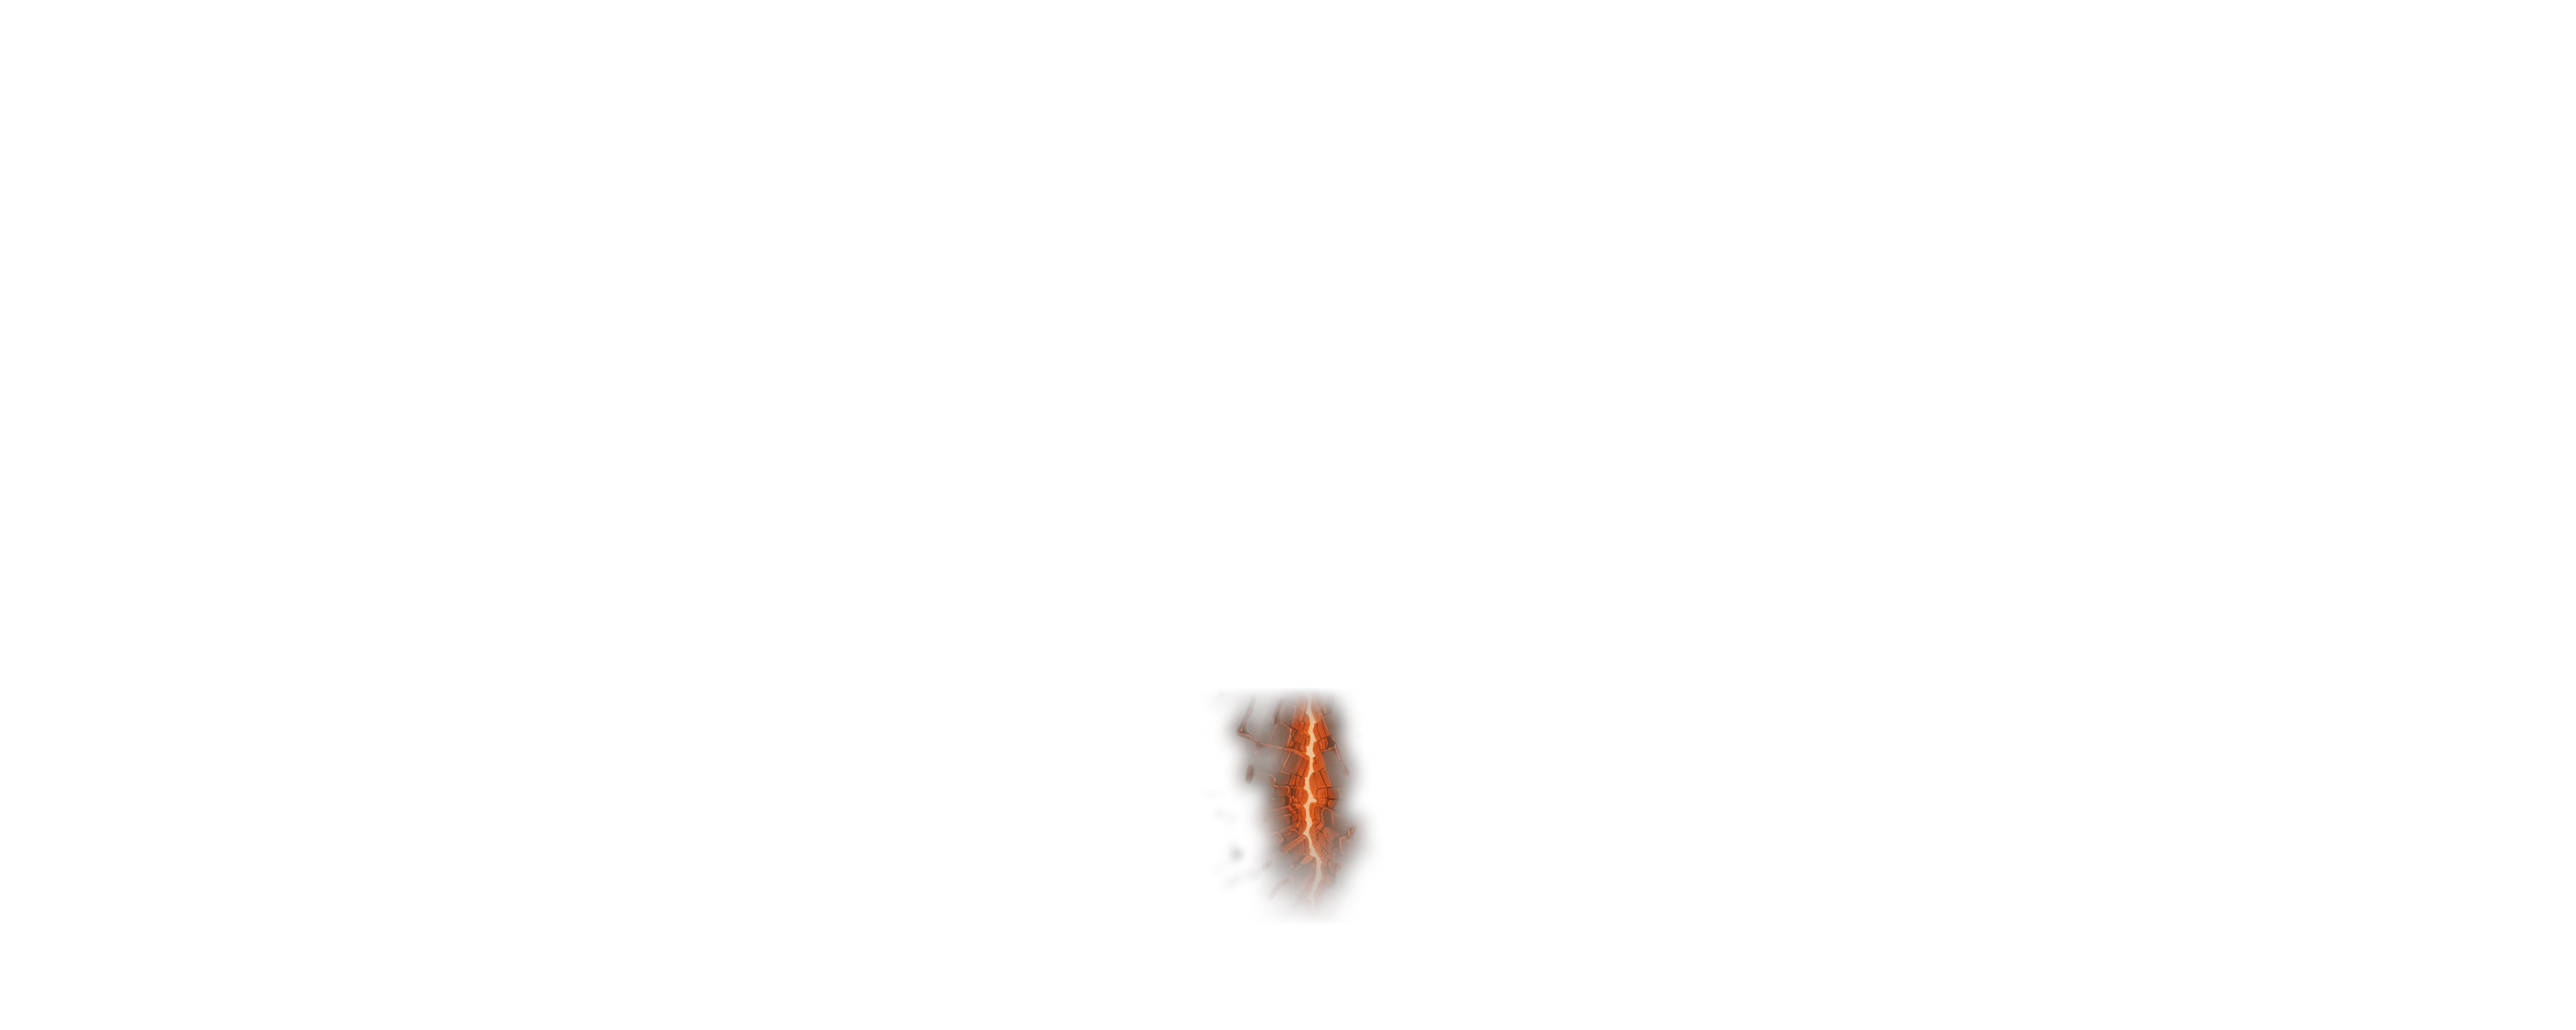
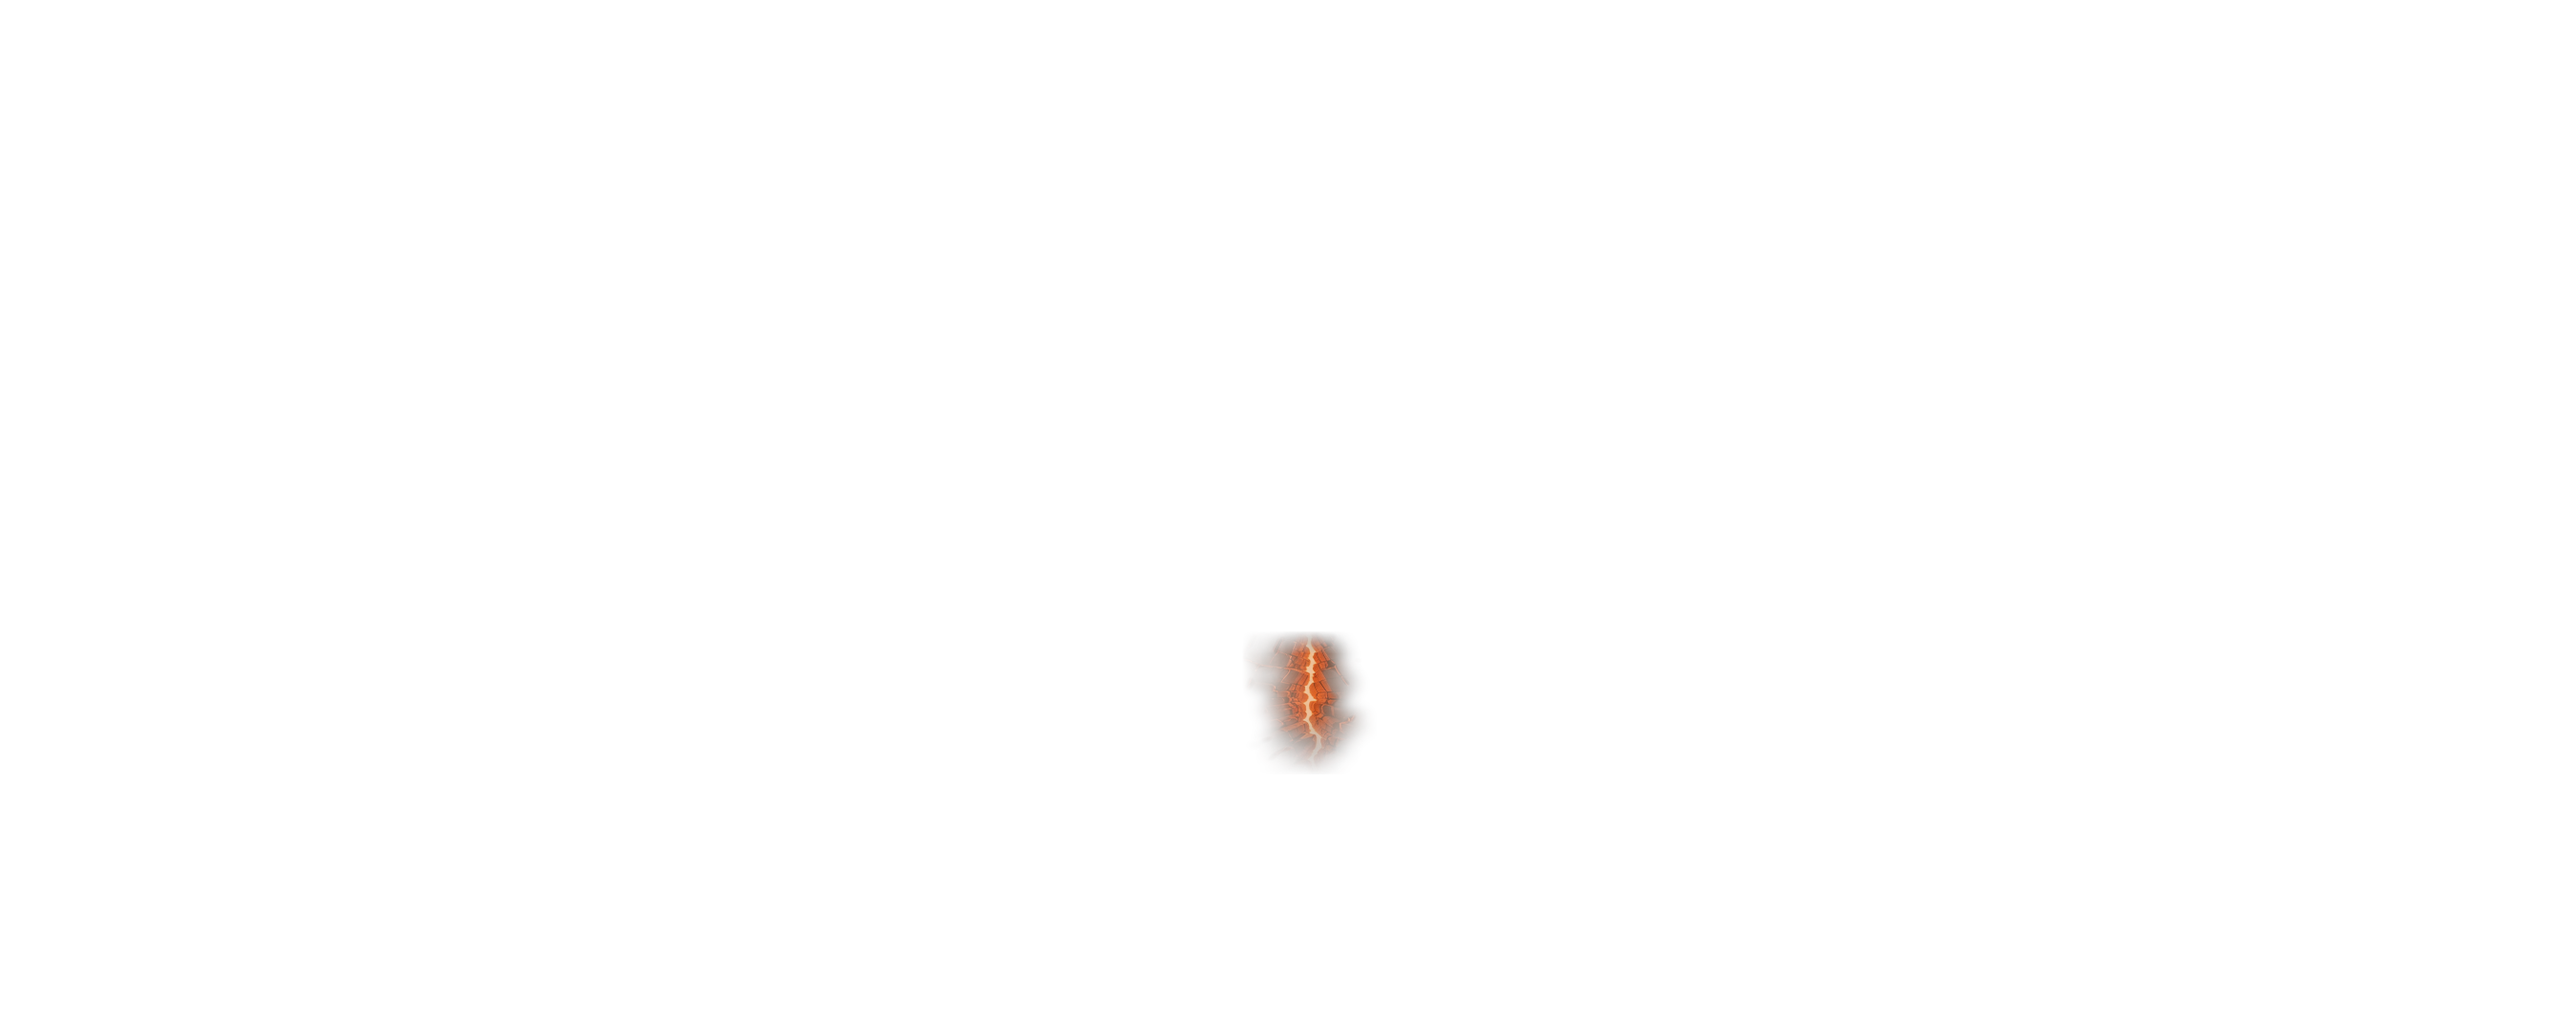
C3' F4 at its own rest (-527, -285) in FORMS (chaos_i3 heave noted for TS); F4 C24 cavity reviewed ITERATE twice, not approved; F3 crack moved up into the visible band and re-approved (SHIP WITH NITS; v2 archived)

Changed region(s): [[0.4667, 0.6111, 0.5289, 0.8861]]

diff --git a/assets-src/gen/colossus.py b/assets-src/gen/colossus.py
@@ -55,6 +55,11 @@ FORMS = {
     "chaos_horizon": {"aspect": "21:9", "canvas": (2700, 1080), "place": (-527, -60), "sky_dim": 0.6,
                       "gen": "f3_gen", "nobg": "f3_nobg", "upscale": "f3_upscale",
                       "ring": (1350.0, 502.0, 525.0, 48.0), "corona": (1347.0, 510.0, 230.0)},
+    # F4: F3's art with the `core` layer's `open` frame, at its own rest place (orchestrator ruling 2026-11-16, C3'):
+    # raised so the whole chest cavity (canvas rows 700-1050) is above the bottom strip (screen 415-765); the canvas
+    # bottom stays at 795 >= 786. chaos_i3 heaves the colossus up from F3's rest (-527, -60) to here (TS owner).
+    "chaos_horizon_core": {"art": "chaos_horizon", "canvas": (2700, 1080), "place": (-527, -285), "sky_dim": 0.6,
+                           "variant": {"core": "open"}},
 }
 
 

diff --git a/docs/ROSTER_LOG.md b/docs/ROSTER_LOG.md
@@ -1335,3 +1335,29 @@ archive copies are in `chaos_horizon_v1`.
 - **Note for the orchestrator:** at the lowered place (-527, -60) the chest (canvas rows 650-1080) mostly falls
   behind the bottom strip. The approved `core_crack` patch (canvas rows ~686-1000) shows only its upper part at rest
   (screen 626-780). A chest variant needs either a pan / `place` change when it is shown, or a higher patch.
+
+**Orchestrator ruling (2026-11-16, 0 calls): F4 = the first retry's cavity (C24) at its own, higher rest place.**
+- **F4 place (-527, -285)**, recorded in `colossus.py FORMS` as `chaos_horizon_core` (art chaos_horizon, variant
+  core: open).
+  - The cavity (canvas rows 700-1050) sits at screen 415-765, all above the strip.
+  - The canvas bottom is at 795 (>= 786); the top is glow only.
+  - Party band std 58.0.
+  - **TS owner:** chaos_i3 must heave the colossus up from F3's rest (-527, -60) to F4's rest (-527, -285), a pan or
+    rise of dy -225. The interlude total is pinned in interludes.test, and the json needs a per-form place for F4.
+- **F4 review 1 (side by side with F3): ITERATE.**
+  - Same being, no face, the party readable.
+  - Nits: an almond / spade outline with a top spike near the disc, a flat flame interior with no inner walls,
+    a downward streak, the rubble crisper than the body.
+  - Offline fixes: the top spike faded (alpha from canvas row 735), the streak faded (to row 945), the rubble toned
+    to the body (feathered, stone pixels only).
+- **F4 review 2: ITERATE**, though the reviewer said it would be "a weak SHIP WITH NITS if the budget stop holds".
+  - Open: a bonfire-like flame instead of a molten mass, little cavity depth, little light on the pectorals, the
+    teardrop outline.
+- **Not approved** under the ruling; the candidate is `gen/out/colossus/chaos_horizon/f4/core_open_fix.png`
+  (2700x1080 canvas patch).
+- **Crack at F3's rest (-60):** the approved patch (canvas rows 722-967) showed only its top at screen 662-780.
+  - It was moved up and shortened offline to canvas rows 662-812 (screen 602-752), with its column sides softened.
+  - Review: **SHIP WITH NITS**, and the nits (soft sides, end above y 760) were applied.
+  - The approve gate required an archive, so the painted set was archived as `chaos_horizon_v2` (a RETIRED_SPRITES
+    row; master, glow and sky_base unchanged).
+  - Re-approved with the moved `core_crack.png`.

diff --git a/docs/RETIRED_SPRITES.md b/docs/RETIRED_SPRITES.md
@@ -54,6 +54,7 @@ One row per retired sprite (the generator adds each row, from the line `retire.p
 | `hollow_seraph_v2` | `hollow_seraph` | boss_idle, boss_attack, boss_cast, boss_hurt | boss_idle `ea9c18f6205f82d369da51b5` (R309, approved as the R313 re-cut); boss_attack `9930651761e987e3df821a78` (R316); boss_cast `386f2a6c443b7316de22b370` (R318); boss_hurt `af6d027191f2ed6c5f40fe54` (R319) | V8 regeneration (REDESIGN_FIX_PLAN F4, P2-3, user D-U1 = b: the blade wings read as cream swords with hilts and cross-guards, the solid plates do not read hollow) | rig + lock (locked, V5; `halo` fx, `raise: false`) | `retire.py --revive hollow_seraph_v2 --as <new_id>` |
 | `chaos_horizon_v1` | `chaos_horizon` (colossus F3) | master.png (900x362 pixel master), glow.png, variant_crack{,_glow,_mask}.png | structure `d95ade61d71a34a63f132b44` (C4), search_replace `1411f3b8f9ac434f8e17c2d6` (C6), remove_bg `2a8b813b7505e5aadf6cfef1` (C7); ROSTER_LOG Pass C - C3 | user ruling D-U10 (2026-11-16): colossus forms are full-resolution painted art; the pixel master (halved, 17 colours, 3x nearest, halo stripped) was rejected as overly pixelated (CHAOS_FORMS_PLAN 18.0) | none (no layer yaml was written) | `retire.py --revive chaos_horizon_v1 --as <id>` |
 | `chaos_orrery_v1` | `chaos_orrery` (colossus F2) | master.png (440x300 pixel master) | structure `6ec8982726b6f02c0ba81070` / `29e22d7952891fa1359044d1` (C12/C13), remove_bg `b2cff3e92335d8e1960ca49d` (C16); ROSTER_LOG Pass C - C3 | user ruling D-U10 (2026-11-16): re-made at full resolution from its own full-res finish (CHAOS_FORMS_PLAN 18.2) | none | `retire.py --revive chaos_orrery_v1 --as <id>` |
+| `chaos_horizon_v2` | `chaos_horizon` (colossus F3, painted) | master.png (2700x1080 painted body), glow.png, sky_base.png, core_crack.png (the first crack patch, canvas rows ~686-1000) | conservative upscale `506909aa09af9788357c7db5` (C20), inpaint `3f10084baf950ef269124a66` (C23); ROSTER_LOG Pass C - C3' | not a rejection: archived so the crack patch could move up into the visible chest band at F3's lowered rest (-527, -60) (D-U11; the approve gate needs a byte-identical archive); master, glow and sky_base unchanged | none | `retire.py --revive chaos_horizon_v2 --as <id>` |
 
 ## Replacements (pass V, integrated at V6)
 
